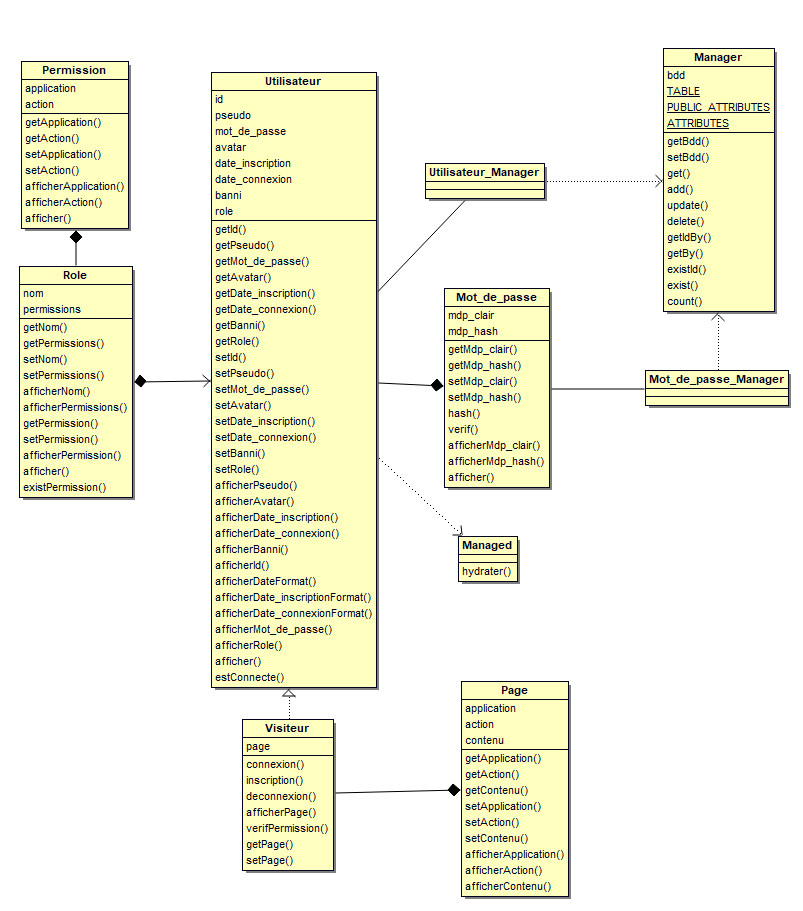
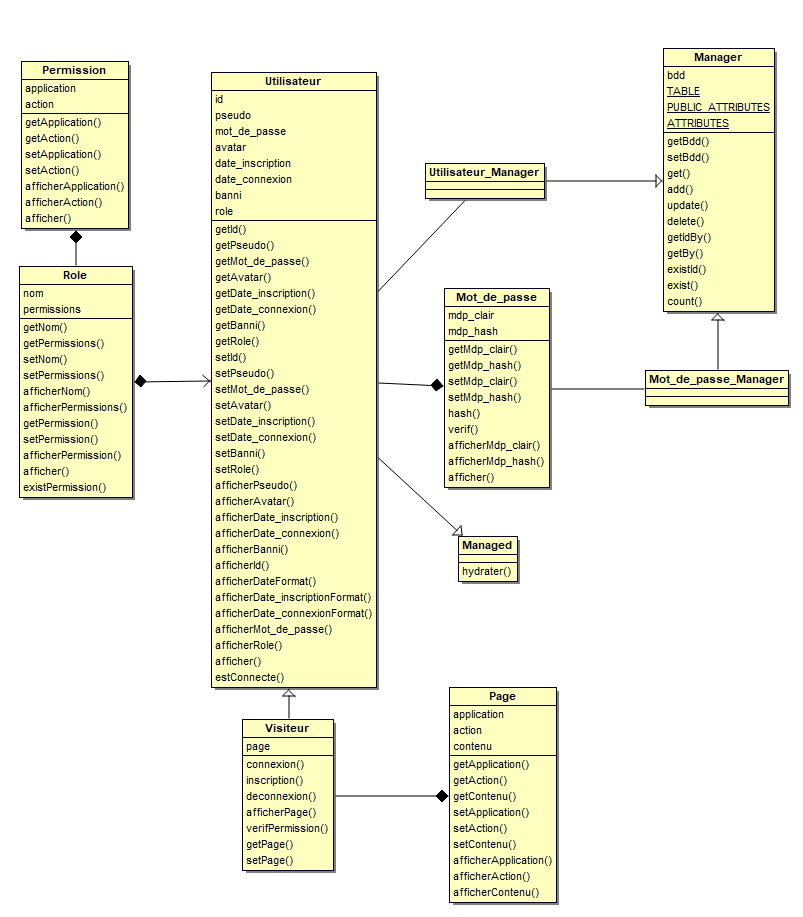
UML+HTML
les liens d'héritage sont correctement utilisé

diff --git a/doc/HTML/class135682.html b/doc/HTML/class135682.html
@@ -29,6 +29,6 @@
 <table><tr><td><div class="element">Operation <b>verifPermission</b></div></td></tr></table><p>Vérifie si l'utilisateur a les permission pour accéder à la page<br /></p><p>Declaration :</p><ul><li>Uml : + verifPermission() : bool</li></ul><a name="ref2_151810"></a>
 <table><tr><td><div class="element">Operation <b>getPage</b></div></td></tr></table><p>Declaration :</p><ul><li>Uml : + getPage() : <a href="class135554.html#ref4_135554"><b>Page</b></a></li></ul><a name="ref2_151938"></a>
 <table><tr><td><div class="element">Operation <b>setPage</b></div></td></tr></table><p>Declaration :</p><ul><li>Uml : # setPage(in page : <a href="class135554.html#ref4_135554"><b>Page</b></a>) : </li></ul></div>
-<p>All public operations : <a href="class128002.html#ref2_148866"><b>afficher</b></a> , <a href="class128002.html#ref2_138626"><b>afficherAvatar</b></a> , <a href="class128002.html#ref2_139010"><b>afficherBanni</b></a> , <a href="class128002.html#ref2_138882"><b>afficherDate_connexion</b></a> , <a href="class128002.html#ref2_139522"><b>afficherDate_connexionFormat</b></a> , <a href="class128002.html#ref2_138754"><b>afficherDate_inscription</b></a> , <a href="class128002.html#ref2_139394"><b>afficherDate_inscriptionFormat</b></a> , <a href="class128002.html#ref2_139266"><b>afficherDateFormat</b></a> , <a href="class128002.html#ref2_139138"><b>afficherId</b></a> , <a href="class128002.html#ref2_139650"><b>afficherMot_de_passe</b></a> , <a href="class135682.html#ref2_151170"><b>afficherPage</b></a> , <a href="class128002.html#ref2_138498"><b>afficherPseudo</b></a> , <a href="class128002.html#ref2_139778"><b>afficherRole</b></a> , <a href="class135682.html#ref2_142338"><b>connexion</b></a> , <a href="class135682.html#ref2_158978"><b>deconnexion</b></a> , <a href="class128002.html#ref2_159106"><b>estConnecte</b></a> , <a href="class128002.html#ref2_128386"><b>getAvatar</b></a> , <a href="class128002.html#ref2_128770"><b>getBanni</b></a> , <a href="class128002.html#ref2_128642"><b>getDate_connexion</b></a> , <a href="class128002.html#ref2_128514"><b>getDate_inscription</b></a> , <a href="class128002.html#ref2_128002"><b>getId</b></a> , <a href="class128002.html#ref2_128258"><b>getMot_de_passe</b></a> , <a href="class135682.html#ref2_151810"><b>getPage</b></a> , <a href="class128002.html#ref2_128130"><b>getPseudo</b></a> , <a href="class128002.html#ref2_128898"><b>getRole</b></a> , <a href="class135682.html#ref2_149250"><b>inscription</b></a> , <a href="class135682.html#ref2_151298"><b>verifPermission</b></a> </p>
+<p>All public operations : <a href="class128002.html#ref2_148866"><b>afficher</b></a> , <a href="class128002.html#ref2_138626"><b>afficherAvatar</b></a> , <a href="class128002.html#ref2_139010"><b>afficherBanni</b></a> , <a href="class128002.html#ref2_138882"><b>afficherDate_connexion</b></a> , <a href="class128002.html#ref2_139522"><b>afficherDate_connexionFormat</b></a> , <a href="class128002.html#ref2_138754"><b>afficherDate_inscription</b></a> , <a href="class128002.html#ref2_139394"><b>afficherDate_inscriptionFormat</b></a> , <a href="class128002.html#ref2_139266"><b>afficherDateFormat</b></a> , <a href="class128002.html#ref2_139138"><b>afficherId</b></a> , <a href="class128002.html#ref2_139650"><b>afficherMot_de_passe</b></a> , <a href="class135682.html#ref2_151170"><b>afficherPage</b></a> , <a href="class128002.html#ref2_138498"><b>afficherPseudo</b></a> , <a href="class128002.html#ref2_139778"><b>afficherRole</b></a> , <a href="class135682.html#ref2_142338"><b>connexion</b></a> , <a href="class135682.html#ref2_158978"><b>deconnexion</b></a> , <a href="class128002.html#ref2_159106"><b>estConnecte</b></a> , <a href="class128002.html#ref2_128386"><b>getAvatar</b></a> , <a href="class128002.html#ref2_128770"><b>getBanni</b></a> , <a href="class128002.html#ref2_128642"><b>getDate_connexion</b></a> , <a href="class128002.html#ref2_128514"><b>getDate_inscription</b></a> , <a href="class128002.html#ref2_128002"><b>getId</b></a> , <a href="class128002.html#ref2_128258"><b>getMot_de_passe</b></a> , <a href="class135682.html#ref2_151810"><b>getPage</b></a> , <a href="class128002.html#ref2_128130"><b>getPseudo</b></a> , <a href="class128002.html#ref2_128898"><b>getRole</b></a> , <a href="class135426.html#ref2_149378"><b>hydrater</b></a> , <a href="class135682.html#ref2_149250"><b>inscription</b></a> , <a href="class135682.html#ref2_151298"><b>verifPermission</b></a> </p>
 </body>
 </html>

diff --git a/doc/HTML/class128002.html b/doc/HTML/class128002.html
@@ -67,6 +67,6 @@
 <table><tr><td><div class="element">Operation <b>afficherRole</b></div></td></tr></table><p>Declaration :</p><ul><li>Uml : + afficherRole() : string</li></ul><a name="ref2_148866"></a>
 <table><tr><td><div class="element">Operation <b>afficher</b></div></td></tr></table><p>Declaration :</p><ul><li>Uml : + afficher() : string</li></ul><a name="ref2_159106"></a>
 <table><tr><td><div class="element">Operation <b>estConnecte</b></div></td></tr></table><p>Vérifie si l'utilisateur est connecté<br /></p><p>Declaration :</p><ul><li>Uml : + estConnecte() : bool</li><li>Php : public function estConnecte(): bool </li></ul></div>
-<p>All public operations : <a href="class128002.html#ref2_148866"><b>afficher</b></a> , <a href="class128002.html#ref2_138626"><b>afficherAvatar</b></a> , <a href="class128002.html#ref2_139010"><b>afficherBanni</b></a> , <a href="class128002.html#ref2_138882"><b>afficherDate_connexion</b></a> , <a href="class128002.html#ref2_139522"><b>afficherDate_connexionFormat</b></a> , <a href="class128002.html#ref2_138754"><b>afficherDate_inscription</b></a> , <a href="class128002.html#ref2_139394"><b>afficherDate_inscriptionFormat</b></a> , <a href="class128002.html#ref2_139266"><b>afficherDateFormat</b></a> , <a href="class128002.html#ref2_139138"><b>afficherId</b></a> , <a href="class128002.html#ref2_139650"><b>afficherMot_de_passe</b></a> , <a href="class128002.html#ref2_138498"><b>afficherPseudo</b></a> , <a href="class128002.html#ref2_139778"><b>afficherRole</b></a> , <a href="class128002.html#ref2_159106"><b>estConnecte</b></a> , <a href="class128002.html#ref2_128386"><b>getAvatar</b></a> , <a href="class128002.html#ref2_128770"><b>getBanni</b></a> , <a href="class128002.html#ref2_128642"><b>getDate_connexion</b></a> , <a href="class128002.html#ref2_128514"><b>getDate_inscription</b></a> , <a href="class128002.html#ref2_128002"><b>getId</b></a> , <a href="class128002.html#ref2_128258"><b>getMot_de_passe</b></a> , <a href="class128002.html#ref2_128130"><b>getPseudo</b></a> , <a href="class128002.html#ref2_128898"><b>getRole</b></a> </p>
+<p>All public operations : <a href="class128002.html#ref2_148866"><b>afficher</b></a> , <a href="class128002.html#ref2_138626"><b>afficherAvatar</b></a> , <a href="class128002.html#ref2_139010"><b>afficherBanni</b></a> , <a href="class128002.html#ref2_138882"><b>afficherDate_connexion</b></a> , <a href="class128002.html#ref2_139522"><b>afficherDate_connexionFormat</b></a> , <a href="class128002.html#ref2_138754"><b>afficherDate_inscription</b></a> , <a href="class128002.html#ref2_139394"><b>afficherDate_inscriptionFormat</b></a> , <a href="class128002.html#ref2_139266"><b>afficherDateFormat</b></a> , <a href="class128002.html#ref2_139138"><b>afficherId</b></a> , <a href="class128002.html#ref2_139650"><b>afficherMot_de_passe</b></a> , <a href="class128002.html#ref2_138498"><b>afficherPseudo</b></a> , <a href="class128002.html#ref2_139778"><b>afficherRole</b></a> , <a href="class128002.html#ref2_159106"><b>estConnecte</b></a> , <a href="class128002.html#ref2_128386"><b>getAvatar</b></a> , <a href="class128002.html#ref2_128770"><b>getBanni</b></a> , <a href="class128002.html#ref2_128642"><b>getDate_connexion</b></a> , <a href="class128002.html#ref2_128514"><b>getDate_inscription</b></a> , <a href="class128002.html#ref2_128002"><b>getId</b></a> , <a href="class128002.html#ref2_128258"><b>getMot_de_passe</b></a> , <a href="class128002.html#ref2_128130"><b>getPseudo</b></a> , <a href="class128002.html#ref2_128898"><b>getRole</b></a> , <a href="class135426.html#ref2_149378"><b>hydrater</b></a> </p>
 </body>
 </html>

diff --git a/doc/HTML/class136066.html b/doc/HTML/class136066.html
@@ -59,6 +59,6 @@
 <table><tr><td><div class="element">Operation <b>afficherReponses</b></div></td></tr></table><p>Declaration :</p><ul><li>Uml : + afficherReponses() : string</li></ul><a name="ref2_158850"></a>
 <table><tr><td><div class="element">Operation <b>afficherReponse</b></div></td></tr></table><p>Declaration :</p><ul><li>Uml : + afficherReponse(in index : int) : string</li></ul><a name="ref0_137858"></a>
 <table><tr><td><div class="element">Relation <b>&lt;association&gt;</b></div></td></tr></table><p>Declaration :</p><ul><li>Uml : -  : <a href="class136194.html#ref4_136194"><b>CommentaireManager</b></a></li><li>Php : private $</li></ul></div>
-<p>All public operations : <a href="class136066.html#ref2_157954"><b>afficher</b></a> , <a href="class136066.html#ref2_157058"><b>afficherAuteur</b></a> , <a href="class136066.html#ref2_157186"><b>afficherContenu</b></a> , <a href="class136066.html#ref2_157442"><b>afficherDate_mise_a_jour</b></a> , <a href="class136066.html#ref2_157826"><b>afficherDate_mise_a_jourFormat</b></a> , <a href="class136066.html#ref2_157314"><b>afficherDate_publication</b></a> , <a href="class136066.html#ref2_157698"><b>afficherDate_publicationFormat</b></a> , <a href="class136066.html#ref2_157570"><b>afficherDateFormat</b></a> , <a href="class136066.html#ref2_156930"><b>afficherId</b></a> , <a href="class136066.html#ref2_158850"><b>afficherReponse</b></a> , <a href="class136066.html#ref2_158722"><b>afficherReponses</b></a> , <a href="class136066.html#ref2_155778"><b>getAuteur</b></a> , <a href="class136066.html#ref2_155906"><b>getContenu</b></a> , <a href="class136066.html#ref2_156162"><b>getDate_mise_a_jour</b></a> , <a href="class136066.html#ref2_156034"><b>getDate_publication</b></a> , <a href="class136066.html#ref2_155650"><b>getId</b></a> , <a href="class136066.html#ref2_158594"><b>getReponse</b></a> , <a href="class136066.html#ref2_158210"><b>getReponses</b></a> , <a href="class136066.html#ref2_158466"><b>setReponse</b></a> </p>
+<p>All public operations : <a href="class136066.html#ref2_157954"><b>afficher</b></a> , <a href="class136066.html#ref2_157058"><b>afficherAuteur</b></a> , <a href="class136066.html#ref2_157186"><b>afficherContenu</b></a> , <a href="class136066.html#ref2_157442"><b>afficherDate_mise_a_jour</b></a> , <a href="class136066.html#ref2_157826"><b>afficherDate_mise_a_jourFormat</b></a> , <a href="class136066.html#ref2_157314"><b>afficherDate_publication</b></a> , <a href="class136066.html#ref2_157698"><b>afficherDate_publicationFormat</b></a> , <a href="class136066.html#ref2_157570"><b>afficherDateFormat</b></a> , <a href="class136066.html#ref2_156930"><b>afficherId</b></a> , <a href="class136066.html#ref2_158850"><b>afficherReponse</b></a> , <a href="class136066.html#ref2_158722"><b>afficherReponses</b></a> , <a href="class136066.html#ref2_155778"><b>getAuteur</b></a> , <a href="class136066.html#ref2_155906"><b>getContenu</b></a> , <a href="class136066.html#ref2_156162"><b>getDate_mise_a_jour</b></a> , <a href="class136066.html#ref2_156034"><b>getDate_publication</b></a> , <a href="class136066.html#ref2_155650"><b>getId</b></a> , <a href="class136066.html#ref2_158594"><b>getReponse</b></a> , <a href="class136066.html#ref2_158210"><b>getReponses</b></a> , <a href="class135426.html#ref2_149378"><b>hydrater</b></a> , <a href="class136066.html#ref2_158466"><b>setReponse</b></a> </p>
 </body>
 </html>

diff --git a/doc/HTML/class136322.html b/doc/HTML/class136322.html
@@ -17,7 +17,7 @@
 
 <a name="ref4_136322"></a>
 <p>Declaration :</p><ul>
-<li>Php : class Message </li></ul><div class="sub">
+<li>Php : class Message extends <a href="class135426.html#ref4_135426"><b>Managed</b></a> </li></ul><div class="sub">
 <a name="ref1_145922"></a>
 <table><tr><td><div class="element">Attribute <b>auteur</b></div></td></tr></table>
 <p>Declaration :</p><ul><li>Uml : - auteur : <a href="class128002.html#ref4_128002"><b>Utilisateur</b></a></li><li>Php : private $auteur</li></ul><a name="ref1_146050"></a>
@@ -44,6 +44,6 @@
 <table><tr><td><div class="element">Operation <b>afficherDate_mise_a_jourFormat</b></div></td></tr></table><p>Declaration :</p><ul><li>Uml : + afficherDate_mise_a_jourFormat(in format : string) : string</li><li>Php : public function afficherDate_mise_a_jourFormat(string $format): string </li></ul><a name="ref2_161282"></a>
 <table><tr><td><div class="element">Operation <b>afficher</b></div></td></tr></table><p>Declaration :</p><ul><li>Uml : + afficher() : string</li><li>Php : public function afficher(): string </li></ul><a name="ref0_138370"></a>
 <table><tr><td><div class="element">Relation <b>&lt;association&gt;</b></div></td></tr></table><p>Declaration :</p><ul><li>Uml : -  : <a href="class136450.html#ref4_136450"><b>ManagerMessage</b></a></li><li>Php : private $</li></ul></div>
-<p>All public operations : <a href="class136322.html#ref2_161282"><b>afficher</b></a> , <a href="class136322.html#ref2_160386"><b>afficherAuteur</b></a> , <a href="class136322.html#ref2_160514"><b>afficherContenu</b></a> , <a href="class136322.html#ref2_160770"><b>afficherDate_mise_a_jour</b></a> , <a href="class136322.html#ref2_161154"><b>afficherDate_mise_a_jourFormat</b></a> , <a href="class136322.html#ref2_160642"><b>afficherDate_publication</b></a> , <a href="class136322.html#ref2_161026"><b>afficherDate_publicationFormat</b></a> , <a href="class136322.html#ref2_160898"><b>afficherDateFormat</b></a> , <a href="class136322.html#ref2_159362"><b>getAuteur</b></a> , <a href="class136322.html#ref2_159490"><b>getContenu</b></a> , <a href="class136322.html#ref2_159746"><b>getDate_mise_a_jour</b></a> , <a href="class136322.html#ref2_159618"><b>getDate_publication</b></a> </p>
+<p>All public operations : <a href="class136322.html#ref2_161282"><b>afficher</b></a> , <a href="class136322.html#ref2_160386"><b>afficherAuteur</b></a> , <a href="class136322.html#ref2_160514"><b>afficherContenu</b></a> , <a href="class136322.html#ref2_160770"><b>afficherDate_mise_a_jour</b></a> , <a href="class136322.html#ref2_161154"><b>afficherDate_mise_a_jourFormat</b></a> , <a href="class136322.html#ref2_160642"><b>afficherDate_publication</b></a> , <a href="class136322.html#ref2_161026"><b>afficherDate_publicationFormat</b></a> , <a href="class136322.html#ref2_160898"><b>afficherDateFormat</b></a> , <a href="class136322.html#ref2_159362"><b>getAuteur</b></a> , <a href="class136322.html#ref2_159490"><b>getContenu</b></a> , <a href="class136322.html#ref2_159746"><b>getDate_mise_a_jour</b></a> , <a href="class136322.html#ref2_159618"><b>getDate_publication</b></a> , <a href="class135426.html#ref2_149378"><b>hydrater</b></a> </p>
 </body>
 </html>

diff --git a/doc/HTML/class136194.html b/doc/HTML/class136194.html
@@ -17,8 +17,9 @@
 
 <a name="ref4_136194"></a>
 <p>Declaration :</p><ul>
-<li>Php : class CommentaireManager </li></ul><div class="sub">
+<li>Php : class CommentaireManager extends <a href="class128642.html#ref4_128642"><b>Manager</b></a> </li></ul><div class="sub">
 <a name="ref0_137730"></a>
 <table><tr><td><div class="element">Relation <b>&lt;association&gt;</b></div></td></tr></table><p>Declaration :</p><ul><li>Uml : -  : <a href="class136066.html#ref4_136066"><b>Commentaire</b></a></li><li>Php : private $</li></ul></div>
+<p>All public operations : <a href="class128642.html#ref2_141442"><b>add</b></a> , <a href="class128642.html#ref2_149122"><b>count</b></a> , <a href="class128642.html#ref2_141698"><b>delete</b></a> , <a href="class128642.html#ref2_142210"><b>exist</b></a> , <a href="class128642.html#ref2_142082"><b>existId</b></a> , <a href="class128642.html#ref2_141314"><b>get</b></a> , <a href="class128642.html#ref2_131714"><b>getBdd</b></a> , <a href="class128642.html#ref2_141954"><b>getBy</b></a> , <a href="class128642.html#ref2_141826"><b>getIdBy</b></a> , <a href="class128642.html#ref2_141570"><b>update</b></a> </p>
 </body>
 </html>

diff --git a/doc/HTML/class136450.html b/doc/HTML/class136450.html
@@ -17,8 +17,9 @@
 
 <a name="ref4_136450"></a>
 <p>Declaration :</p><ul>
-<li>Php : class ManagerMessage </li></ul><div class="sub">
+<li>Php : class ManagerMessage extends <a href="class128642.html#ref4_128642"><b>Manager</b></a> </li></ul><div class="sub">
 <a name="ref0_138498"></a>
 <table><tr><td><div class="element">Relation <b>&lt;association&gt;</b></div></td></tr></table><p>Declaration :</p><ul><li>Uml : -  : <a href="class136322.html#ref4_136322"><b>Message</b></a></li><li>Php : private $</li></ul></div>
+<p>All public operations : <a href="class128642.html#ref2_141442"><b>add</b></a> , <a href="class128642.html#ref2_149122"><b>count</b></a> , <a href="class128642.html#ref2_141698"><b>delete</b></a> , <a href="class128642.html#ref2_142210"><b>exist</b></a> , <a href="class128642.html#ref2_142082"><b>existId</b></a> , <a href="class128642.html#ref2_141314"><b>get</b></a> , <a href="class128642.html#ref2_131714"><b>getBdd</b></a> , <a href="class128642.html#ref2_141954"><b>getBy</b></a> , <a href="class128642.html#ref2_141826"><b>getIdBy</b></a> , <a href="class128642.html#ref2_141570"><b>update</b></a> </p>
 </body>
 </html>

diff --git a/doc/HTML/class128898.html b/doc/HTML/class128898.html
@@ -19,5 +19,6 @@
 <div class="sub">
 <a name="ref0_129410"></a>
 <table><tr><td><div class="element">Relation <b>&lt;association&gt;</b></div></td></tr></table><p>Declaration :</p><ul><li>Uml : -  : <a href="class128130.html#ref4_128130"><b>Mot_de_passe</b></a></li></ul></div>
+<p>All public operations : <a href="class128642.html#ref2_141442"><b>add</b></a> , <a href="class128642.html#ref2_149122"><b>count</b></a> , <a href="class128642.html#ref2_141698"><b>delete</b></a> , <a href="class128642.html#ref2_142210"><b>exist</b></a> , <a href="class128642.html#ref2_142082"><b>existId</b></a> , <a href="class128642.html#ref2_141314"><b>get</b></a> , <a href="class128642.html#ref2_131714"><b>getBdd</b></a> , <a href="class128642.html#ref2_141954"><b>getBy</b></a> , <a href="class128642.html#ref2_141826"><b>getIdBy</b></a> , <a href="class128642.html#ref2_141570"><b>update</b></a> </p>
 </body>
 </html>

diff --git a/doc/HTML/class128770.html b/doc/HTML/class128770.html
@@ -19,5 +19,6 @@
 <div class="sub">
 <a name="ref0_128642"></a>
 <table><tr><td><div class="element">Relation <b>&lt;association&gt;</b></div></td></tr></table><p>Declaration :</p><ul><li>Uml : -  : <a href="class128002.html#ref4_128002"><b>Utilisateur</b></a></li></ul></div>
+<p>All public operations : <a href="class128642.html#ref2_141442"><b>add</b></a> , <a href="class128642.html#ref2_149122"><b>count</b></a> , <a href="class128642.html#ref2_141698"><b>delete</b></a> , <a href="class128642.html#ref2_142210"><b>exist</b></a> , <a href="class128642.html#ref2_142082"><b>existId</b></a> , <a href="class128642.html#ref2_141314"><b>get</b></a> , <a href="class128642.html#ref2_131714"><b>getBdd</b></a> , <a href="class128642.html#ref2_141954"><b>getBy</b></a> , <a href="class128642.html#ref2_141826"><b>getIdBy</b></a> , <a href="class128642.html#ref2_141570"><b>update</b></a> </p>
 </body>
 </html>

diff --git a/doc/HTML/class135938.html b/doc/HTML/class135938.html
@@ -19,5 +19,6 @@
 <div class="sub">
 <a name="ref0_137090"></a>
 <table><tr><td><div class="element">Relation <b>&lt;association&gt;</b></div></td></tr></table><p>Declaration :</p><ul><li>Uml : -  : <a href="class135810.html#ref4_135810"><b>Post</b></a></li></ul></div>
+<p>All public operations : <a href="class128642.html#ref2_141442"><b>add</b></a> , <a href="class128642.html#ref2_149122"><b>count</b></a> , <a href="class128642.html#ref2_141698"><b>delete</b></a> , <a href="class128642.html#ref2_142210"><b>exist</b></a> , <a href="class128642.html#ref2_142082"><b>existId</b></a> , <a href="class128642.html#ref2_141314"><b>get</b></a> , <a href="class128642.html#ref2_131714"><b>getBdd</b></a> , <a href="class128642.html#ref2_141954"><b>getBy</b></a> , <a href="class128642.html#ref2_141826"><b>getIdBy</b></a> , <a href="class128642.html#ref2_141570"><b>update</b></a> </p>
 </body>
 </html>

diff --git a/doc/HTML/class135426.html b/doc/HTML/class135426.html
@@ -16,7 +16,7 @@
 <!-- ============================================================= -->
 
 <a name="ref4_135426"></a>
-<p>Directly inherited by : <a href="class135810.html#ref4_135810"><b>Post</b></a> </p>
+<p>Directly inherited by : <a href="class136066.html#ref4_136066"><b>Commentaire</b></a> <a href="class136322.html#ref4_136322"><b>Message</b></a> <a href="class135810.html#ref4_135810"><b>Post</b></a> <a href="class128002.html#ref4_128002"><b>Utilisateur</b></a> </p>
 <div class="sub">
 <a name="ref2_149378"></a>
 <table><tr><td><div class="element">Operation <b>hydrater</b></div></td></tr></table><p>Hydrate l'objet managé<br /></p><p>Declaration :</p><ul><li>Uml : + hydrater(in donnees : array) : </li></ul></div>

diff --git a/doc/HTML/class128642.html b/doc/HTML/class128642.html
@@ -16,6 +16,7 @@
 <!-- ============================================================= -->
 
 <a name="ref4_128642"></a>
+<p>Directly inherited by : <a href="class136194.html#ref4_136194"><b>CommentaireManager</b></a> <a href="class136450.html#ref4_136450"><b>ManagerMessage</b></a> <a href="class128898.html#ref4_128898"><b>Mot_de_passe_Manager</b></a> <a href="class135938.html#ref4_135938"><b>PostManager</b></a> <a href="class128770.html#ref4_128770"><b>Utilisateur_Manager</b></a> </p>
 <div class="sub">
 <a name="ref1_130178"></a>
 <table><tr><td><div class="element">Attribute <b>bdd</b></div></td></tr></table>
